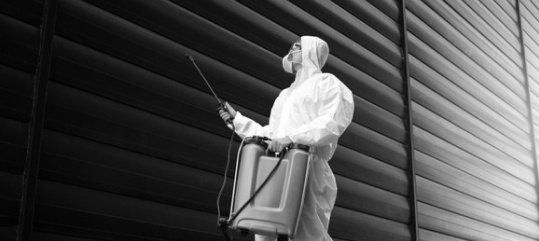
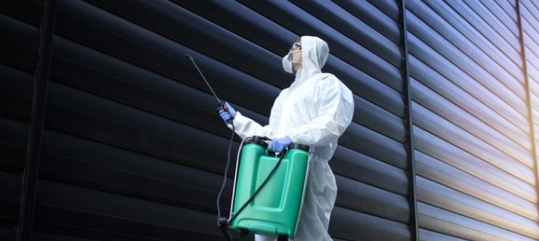
feat: card greyscale hover effect

diff --git a/src/drafts/blocks/card-done/__image/card-done__image.css b/src/drafts/blocks/card-done/__image/card-done__image.css
@@ -1,7 +1,15 @@
-.card-done__iamge {
+.card-done__image {
   width: 100%;
   height: 354px;
+  transition: filter 0.5s ease-in-out;
   object-fit: cover;
 
+  -webkit-filter: grayscale(100%);
+  filter: grayscale(100%);
   object-position: center;
+}
+
+.card-done__image:hover {
+  -webkit-filter: grayscale(0%);
+  filter: grayscale(0%);
 }

diff --git a/src/drafts/blocks/card-actual/__image/card-actual__image.css b/src/drafts/blocks/card-actual/__image/card-actual__image.css
@@ -1,7 +1,15 @@
 .card-actual__image {
   width: 100%;
   height: 240px;
+  transition: filter 0.5s ease-in-out;
   object-fit: cover;
 
+  -webkit-filter: grayscale(100%);
+  filter: grayscale(100%);
   object-position: center;
+}
+
+.card-actual__image:hover {
+  -webkit-filter: grayscale(0%);
+  filter: grayscale(0%);
 }

diff --git a/src/drafts/README.md b/src/drafts/README.md
@@ -1,0 +1,40 @@
+# Проект команды 39: Гражданин поэт
+
+## О проекте
+
+Проект представляет из себя веб-сервис для размещения общественных инициатив в формате стихотворений, составленных из цитат поэтов-классиков.
+Интерфейс поэтапного оформления обращения помогает пользователю:
+
+1. Определить специфику проблемы;
+2. Найти подходящие цитаты при помощи поиска по ключевым словам в единой базе стихотворений;
+3. Заполнить все необходимые реквизиты с предпросмотром документа;
+4. Опубликовать готовое обращение.
+
+Проект выполнен в рамках двухнедельного Хакатона 2025 среди студентов Яндекс.Практикумума из факультетов Дизайна и Веб-разработки.
+
+Сайт оптимизирован для следующих разрешений:
+
+- 1280px
+- _(soon)_ 768px
+- _(soon)_ 320px
+
+## Использованные языки, технологии и методологии
+
+- React
+- Javascript
+- HTML form
+- Grid layout
+- Media queries
+- Font smoothing
+- Figma
+- HTML
+- CSS
+- Semantic markup
+- Flexbox
+- CSS animations
+- BEM methodology
+- BEM nested file structure
+
+## Как использовать
+
+Посетите [эту страницу](https://apl-by.github.io/sitizen-poet/) или загрузите файлы и введите команду yarn start в папке проекта. Работоспособность проверена в Google Chrome и Яндекс браузере.
